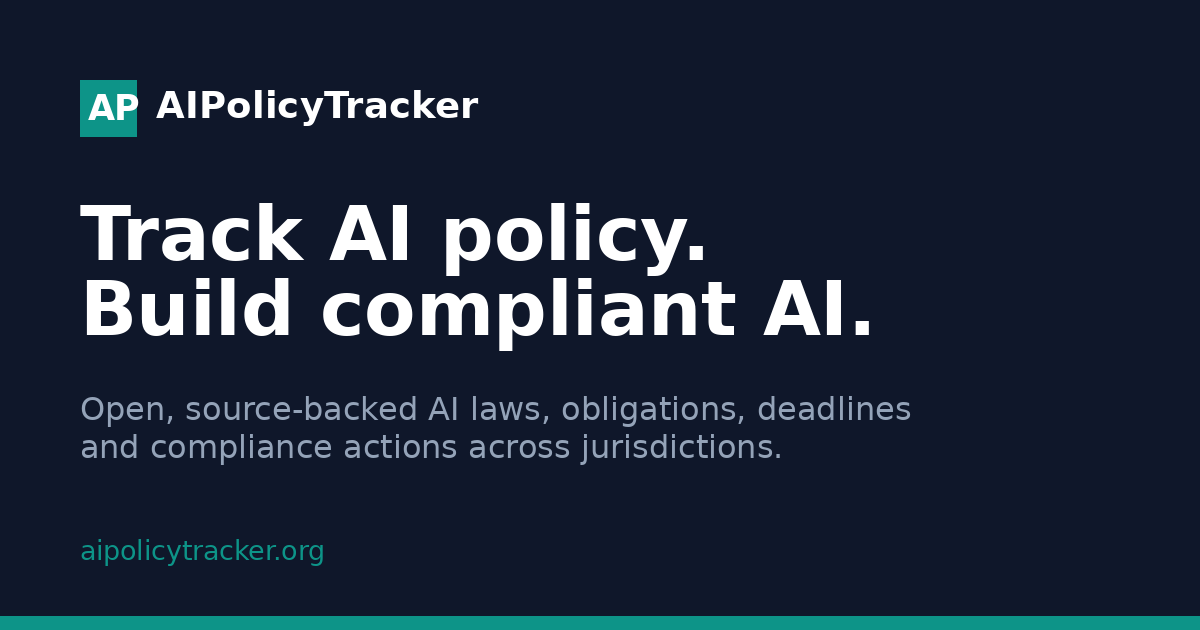
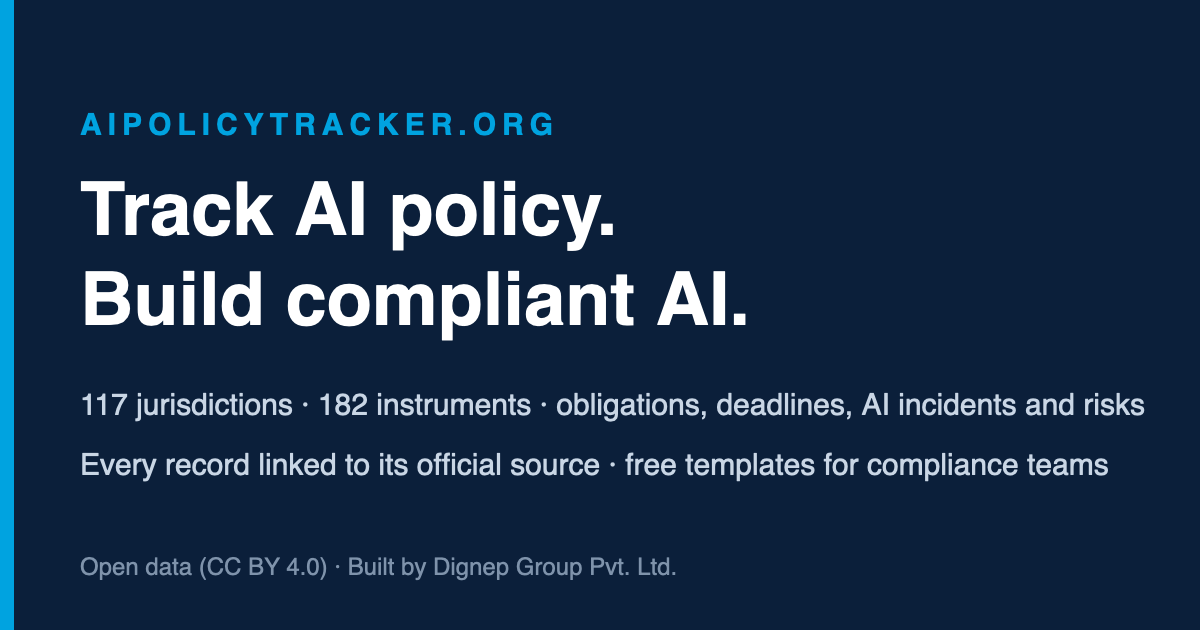
Themed account pages, corrections on risk profiles, guide hooks, new OG image, debt cleanup (#52)
- Forgot/reset password, verify email, confirm password and profile pages are Blade in the site theme (x-auth-shell); profile shows downloads, consent, password and deletion.
- Report a correction on incident and risk profiles with prefilled fields and source links.
- Featured guide titles and summaries rewritten around outcomes; OG image regenerated in brand colours.
- Debt entries for removed legacy code closed.

diff --git a/resources/views/site/account/profile.blade.php b/resources/views/site/account/profile.blade.php
@@ -1,0 +1,53 @@
+@extends('site.layouts.app')
+@section('content')
+<div class="container-site py-8 max-w-3xl">
+    <x-site.breadcrumbs :items="$seo->breadcrumbs" />
+    <p class="eyebrow mt-3">Your account</p>
+    <h1 class="mt-2 text-2xl sm:text-3xl font-semibold tracking-tight text-brand-navy">{{ $user->name }}</h1>
+    <p class="mt-1 text-sm text-brand-muted">{{ $user->email }} · member since {{ $user->created_at?->format('j M Y') }}@if($user->isAdmin()) · <a href="{{ route('backend.admin.dashboard') }}">Admin</a>@endif</p>
+    @if(session('status') === 'profile-updated')<p class="mt-4 rounded-sm border border-state-good/30 bg-state-goodbg px-3 py-2 text-sm text-state-good" role="status">Profile saved.</p>@elseif(session('status') === 'password-updated')<p class="mt-4 rounded-sm border border-state-good/30 bg-state-goodbg px-3 py-2 text-sm text-state-good" role="status">Password updated.</p>@elseif(session('status') === 'verification-link-sent')<p class="mt-4 rounded-sm border border-state-good/30 bg-state-goodbg px-3 py-2 text-sm text-state-good" role="status">Verification link sent.</p>@endif
+    <div class="mt-8 grid gap-6 md:grid-cols-2">
+        <section class="card-flat p-5" aria-labelledby="dl-h">
+            <h2 id="dl-h" class="section-title !text-lg">Your downloads</h2>
+            @if($downloads->isEmpty())<p class="mt-2 text-sm text-brand-muted">No downloads yet. <a href="{{ route('guides.index', ['access' => 'download']) }}">Browse the free tools</a>.</p>@else
+            <ul class="mt-3 divide-y divide-brand-line text-sm">@foreach($downloads as $d)<li class="py-2 flex flex-wrap justify-between gap-2"><span>@if($d->tool)<a href="{{ $d->tool->url() }}">{{ $d->tool->title }}</a>@else{{ $d->resource_slug }}@endif <span class="meta">v{{ $d->version }}</span></span><span class="meta">{{ $d->created_at->format('j M Y') }} · @if($d->tool && $d->tool->status === 'published')<a href="{{ route('tools.ready', [$d->resource_slug, $d]) }}">get links</a>@else unavailable @endif</span></li>@endforeach</ul>@endif
+        </section>
+        <section class="card-flat p-5" aria-labelledby="pref-h">
+            <h2 id="pref-h" class="section-title !text-lg">Updates and consent</h2>
+            <dl class="mt-3 text-sm space-y-1.5 text-brand-body">
+                <div class="flex justify-between gap-2"><dt class="text-brand-muted">Email verified</dt><dd>{{ $user->email_verified_at ? $user->email_verified_at->format('j M Y') : '—' }}</dd></div>
+                <div class="flex justify-between gap-2"><dt class="text-brand-muted">Terms accepted</dt><dd>{{ $user->terms_accepted_at?->format('j M Y') ?? '—' }}</dd></div>
+                <div class="flex justify-between gap-2"><dt class="text-brand-muted">Policy-update emails</dt><dd>{{ $user->marketing_consent_at ? 'opted in '.$user->marketing_consent_at->format('j M Y') : 'not opted in' }}</dd></div>
+            </dl>
+            @if(!$user->email_verified_at)<form method="post" action="{{ route('verification.send') }}" class="mt-3">@csrf<button type="submit" class="btn-secondary">Resend verification email</button></form>@endif
+            <p class="mt-3 meta">Weekly digest subscriptions are managed from the <a href="{{ route('subscribe.show') }}">subscribe page</a> and the unsubscribe link in every email.</p>
+        </section>
+    </div>
+    <div class="mt-6 grid gap-6 md:grid-cols-2">
+        <form method="post" action="{{ route('profile.update') }}" class="card-flat p-5 space-y-3" aria-labelledby="prof-h">@csrf @method('PATCH')
+            <h2 id="prof-h" class="section-title !text-lg">Profile</h2>
+            <div><label for="name" class="label">Name</label><input id="name" name="name" class="input" required value="{{ old('name', $user->name) }}">@error('name')<p class="mt-1 text-xs text-state-bad">{{ $message }}</p>@enderror</div>
+            <div><label for="email" class="label">Email address</label><input id="email" type="email" name="email" class="input" required value="{{ old('email', $user->email) }}">@error('email')<p class="mt-1 text-xs text-state-bad">{{ $message }}</p>@enderror<p class="mt-1 meta">Changing the address requires a new verification.</p></div>
+            <div><label for="organization_name" class="label">Organisation <span class="meta font-normal">(optional)</span></label><input id="organization_name" name="organization_name" class="input" value="{{ old('organization_name', $user->organization_name) }}"></div>
+            <label class="flex items-start gap-2 text-sm text-brand-body"><input type="checkbox" name="marketing_consent" value="1" @checked($user->marketing_consent_at) class="mt-1 rounded-sm border-brand-line text-brand-navy focus:ring-brand-navy"><span>Email me guides and updates when related AI policy requirements change.</span></label>
+            <button type="submit" class="btn-primary">Save profile</button>
+        </form>
+        <form method="post" action="{{ route('password.update') }}" class="card-flat p-5 space-y-3" aria-labelledby="pw-h">@csrf @method('PUT')
+            <h2 id="pw-h" class="section-title !text-lg">Password</h2>
+            <div><label for="current_password" class="label">Current password</label><input id="current_password" type="password" name="current_password" class="input" required autocomplete="current-password">@error('current_password', 'updatePassword')<p class="mt-1 text-xs text-state-bad">{{ $message }}</p>@enderror</div>
+            <div><label for="password" class="label">New password</label><input id="password" type="password" name="password" class="input" required autocomplete="new-password">@error('password', 'updatePassword')<p class="mt-1 text-xs text-state-bad">{{ $message }}</p>@enderror</div>
+            <div><label for="password_confirmation" class="label">Confirm new password</label><input id="password_confirmation" type="password" name="password_confirmation" class="input" required autocomplete="new-password"></div>
+            <button type="submit" class="btn-primary">Update password</button>
+        </form>
+    </div>
+    <details class="mt-6 card-flat p-5">
+        <summary class="cursor-pointer text-sm font-semibold text-state-bad">Delete account</summary>
+        <p class="mt-2 text-sm text-brand-body">Deleting your account removes your profile and download history permanently. Digest subscriptions are separate; use the unsubscribe link in any email.</p>
+        <form method="post" action="{{ route('profile.destroy') }}" class="mt-3 flex flex-wrap gap-2 items-end" onsubmit="return confirm('Delete your account permanently?');">@csrf @method('DELETE')
+            <div><label for="del-password" class="label">Confirm with your password</label><input id="del-password" type="password" name="password" class="input" required autocomplete="current-password">@error('password', 'userDeletion')<p class="mt-1 text-xs text-state-bad">{{ $message }}</p>@enderror</div>
+            <button type="submit" class="btn-secondary !border-state-bad/40 !text-state-bad">Delete my account</button>
+        </form>
+    </details>
+    <p class="mt-6 text-sm"><form method="post" action="{{ route('logout') }}" class="inline">@csrf<button type="submit" class="btn-secondary">Sign out</button></form></p>
+</div>
+@endsection

diff --git a/app/Http/Controllers/Site/ContributeController.php b/app/Http/Controllers/Site/ContributeController.php
@@ -21,6 +21,8 @@ class ContributeController extends Controller
         'jurisdiction' => ['name', 'regulatory_status_summary', 'binding_vs_guidance', 'current_priorities', 'regulators', 'official_source_url'],
         'obligation' => ['title', 'category', 'is_binding', 'summary', 'practical_action', 'applies_from', 'source_reference', 'official_source_url'],
         'change' => ['title', 'occurred_on', 'what_changed', 'practical_impact', 'impact_level', 'status_after', 'official_source_url'],
+        'incident' => ['title', 'occurred_on', 'description', 'deployers', 'developers', 'harmed', 'mit_domain', 'mit_subdomain', 'entity', 'intent', 'timing', 'harm_level', 'countries'],
+        'risk' => ['risk_category', 'risk_subcategory', 'description', 'domain', 'subdomain', 'entity', 'intent', 'timing', 'paper_title'],
     ];
 
     public function show(Request $request): View
@@ -44,8 +46,8 @@ class ContributeController extends Controller
             'subject' => $subject,
             'prefill' => [
                 'type' => array_key_exists($request->query('type', ''), ContributorSubmission::TYPES) ? $request->query('type') : 'correction',
-                'subject_type' => $subject['type'] ?? (in_array($subjectType, ['policy', 'jurisdiction', 'obligation', 'change', 'other'], true) ? $subjectType : null),
-                'subject_slug' => $subject['slug'] ?? (preg_match('/^[a-z0-9-]{0,160}$/', $subjectSlug) ? $subjectSlug : null),
+                'subject_type' => $subject['type'] ?? (in_array($subjectType, ['policy', 'jurisdiction', 'obligation', 'change', 'incident', 'risk', 'other'], true) ? $subjectType : null),
+                'subject_slug' => $subject['slug'] ?? (preg_match('/^[A-Za-z0-9._-]{0,160}$/', $subjectSlug) ? $subjectSlug : null),
                 'field' => $subject && array_key_exists((string) $request->query('field'), $subject['fields']) ? $request->query('field') : null,
             ],
         ]);
@@ -60,8 +62,8 @@ class ContributeController extends Controller
 
         $data = $request->validate([
             'type' => ['required', 'in:'.implode(',', array_keys(ContributorSubmission::TYPES))],
-            'subject_type' => ['nullable', 'in:policy,jurisdiction,obligation,change,other'],
-            'subject_slug' => ['nullable', 'string', 'max:160', 'regex:/^[a-z0-9-]*$/'],
+            'subject_type' => ['nullable', 'in:policy,jurisdiction,obligation,change,incident,risk,other'],
+            'subject_slug' => ['nullable', 'string', 'max:160', 'regex:/^[A-Za-z0-9._-]*$/'],
             'field' => ['nullable', 'string', 'max:64', 'regex:/^[a-z_]*$/'],
             'current_value' => ['nullable', 'string', 'max:4000'],
             'proposed_value' => ['nullable', 'string', 'max:4000'],
@@ -108,7 +110,7 @@ class ContributeController extends Controller
      */
     public static function resolveSubject(?string $type, string $slug): ?array
     {
-        if (! $type || $slug === '' || ! preg_match('/^[a-z0-9-]{1,160}$/', $slug)) {
+        if (! $type || $slug === '' || ! preg_match('/^[A-Za-z0-9._-]{1,160}$/', $slug)) {
             return null;
         }
         $labels = [
@@ -118,7 +120,7 @@ class ContributeController extends Controller
             'official_source_url' => 'Official source URL', 'regulatory_status_summary' => 'Regulatory status', 'binding_vs_guidance' => 'Binding vs guidance',
             'current_priorities' => 'Current priorities', 'regulators' => 'Regulators', 'category' => 'Category', 'summary' => 'Summary',
             'practical_action' => 'Practical action', 'source_reference' => 'Source reference', 'occurred_on' => 'Date of change',
-            'what_changed' => 'What changed', 'practical_impact' => 'Practical impact', 'impact_level' => 'Impact level', 'status_after' => 'Status after change',
+            'what_changed' => 'What changed', 'description' => 'Description', 'deployers' => 'Alleged deployer', 'developers' => 'Alleged developer', 'harmed' => 'Alleged harmed party', 'mit_domain' => 'Risk domain', 'mit_subdomain' => 'Risk subdomain', 'entity' => 'Causal entity', 'intent' => 'Intent', 'timing' => 'Timing', 'harm_level' => 'Harm level', 'countries' => 'Countries', 'risk_category' => 'Risk category', 'risk_subcategory' => 'Risk subcategory', 'domain' => 'Domain', 'subdomain' => 'Subdomain', 'paper_title' => 'Source paper', 'practical_impact' => 'Practical impact', 'impact_level' => 'Impact level', 'status_after' => 'Status after change',
         ];
 
         $record = match ($type) {
@@ -126,6 +128,8 @@ class ContributeController extends Controller
             'jurisdiction' => Jurisdiction::published()->where('slug', $slug)->first(),
             'obligation' => Obligation::published()->with('policyInstrument.jurisdiction')->where('slug', $slug)->first(),
             'change' => ChangeEvent::published()->with(['jurisdiction', 'policyInstrument'])->where('slug', $slug)->first(),
+            'incident' => ctype_digit($slug) ? \App\Models\ExternalIncident::find((int) $slug) : null,
+            'risk' => \App\Models\ExternalRisk::find(str_replace('--', '#', $slug)),
             default => null,
         };
         if (! $record) {
@@ -143,6 +147,8 @@ class ContributeController extends Controller
             'jurisdiction' => [$record->name, $record->url(), null],
             'obligation' => [$record->title, $record->url(), $record->policyInstrument?->jurisdiction?->name],
             'change' => [$record->title, route('changes.year', $record->occurred_on->year).'#'.$record->slug, $record->jurisdiction?->name],
+            'incident' => ['AI incident #'.$record->incident_id.': '.$record->title, $record->url(), 'AI Incident Database'],
+            'risk' => [($record->risk_subcategory ?: $record->risk_category ?: $record->ev_id).' ('.$record->quick_ref.')', $record->url(), 'MIT AI Risk Repository'],
         };
 
         return [
@@ -150,8 +156,8 @@ class ContributeController extends Controller
             'slug' => $slug,
             'title' => $title,
             'url' => $url,
-            'official_source_url' => $record->official_source_url ?? ($type === 'obligation' ? $record->policyInstrument?->official_source_url : null),
-            'source_title' => $record->source_title ?? ($type === 'obligation' ? $record->policyInstrument?->source_title : null),
+            'official_source_url' => match ($type) { 'incident' => $record->citeUrl(), 'risk' => $record->navigatorUrl(), 'obligation' => $record->official_source_url ?? $record->policyInstrument?->official_source_url, default => $record->official_source_url },
+            'source_title' => match ($type) { 'incident' => 'AI Incident Database record', 'risk' => 'MIT AI Risk Repository (Risk Navigator)', 'obligation' => $record->source_title ?? $record->policyInstrument?->source_title, default => $record->source_title },
             'jurisdiction' => $jurisdiction,
             'content_version' => isset($record->content_version) ? (int) $record->content_version : null,
             'fields' => $fields,

diff --git a/config/content.php b/config/content.php
@@ -157,10 +157,10 @@ return [
 
     'guides' => [
         'ai-startup-eu-ai-act-readiness' => [
-            'h1' => 'EU AI Act readiness for AI startups',
-            'title' => 'EU AI Act readiness guide for AI startups',
-            'description' => 'A practical, source-backed readiness path for startups: decide your role, screen prohibited uses, classify risk, plan high-risk workstreams and prepare general-purpose AI duties, with links to official sources.',
-            'summary' => 'Step-by-step readiness path from inventory to evidence, tied to the obligations and deadlines recorded for the EU AI Act.',
+            'h1' => 'EU AI Act readiness for AI startups: the 90-day path from inventory to evidence',
+            'title' => 'EU AI Act readiness for AI startups (90-day path, dated obligations)',
+            'description' => 'The EU AI Act already applies to prohibited practices and AI literacy, general-purpose model duties started in August 2025 and most high-risk obligations land in August 2026. This guide turns those dates into a 90-day path: decide your role, screen banned uses, classify risk, plan the high-risk workstreams and build the evidence pack customers and regulators will ask for, with every step linked to the recorded obligation.',
+            'summary' => 'Most startups are providers without knowing it. In 90 days: role, prohibited-use screen, risk classification, high-risk workstreams and an evidence pack, each step linked to the recorded obligation and its deadline.',
             'policies' => ['eu-ai-act'],
             'obligations' => ['eu-ai-act-prohibited-practices', 'eu-ai-act-ai-literacy', 'eu-ai-act-risk-management-system', 'eu-ai-act-technical-documentation', 'eu-ai-act-transparency-article-50', 'eu-ai-act-gpai-provider-obligations'],
             'steps' => [
@@ -176,10 +176,10 @@ return [
             ],
         ],
         'ai-governance-for-startups' => [
-            'h1' => 'AI governance for startups',
-            'title' => 'AI governance for startups: a minimum viable programme',
-            'description' => 'How a small team can set up AI governance that satisfies customers and regulators across jurisdictions: inventory, roles, risk screening, data and model documentation, oversight, incident handling and evidence, mapped to recorded obligations.',
-            'summary' => 'A minimum viable governance programme that scales from one product to a portfolio, drawing on obligations recorded across the EU, US, UK, Singapore and Australia.',
+            'h1' => 'AI governance for startups: the four artefacts every buyer and regulator asks for',
+            'title' => 'AI governance for startups: inventory, register, policy, incident process',
+            'description' => 'Enterprise buyers, insurers and regulators ask small AI teams for the same four things: an AI system inventory, a risk register, a written policy and an incident process. This guide shows how to produce them in weeks, not quarters, using obligations recorded across the EU, US, UK, Singapore and Australia and the free templates on this site.',
+            'summary' => 'Skip the year-long programme. Build the four artefacts procurement, insurers and regulators actually request (inventory, risk register, policy, incident process) with free templates and recorded obligations.',
             'policies' => ['eu-ai-act', 'us-nist-ai-rmf', 'singapore-model-ai-governance-framework', 'australia-voluntary-ai-safety-standard', 'us-colorado-ai-act'],
             'obligations' => ['eu-ai-act-risk-management-system', 'us-nist-ai-rmf-govern', 'singapore-mgf-human-involvement', 'australia-vaiss-accountability-and-risk-management', 'us-colorado-deployer-impact-assessment'],
             'steps' => [
@@ -193,10 +193,10 @@ return [
             'faq' => [],
         ],
         'iso-42001-vs-eu-ai-act' => [
-            'h1' => 'ISO/IEC 42001 vs the EU AI Act',
-            'title' => 'ISO/IEC 42001 vs EU AI Act: how the standard maps to the law',
-            'description' => 'How the ISO/IEC 42001 AI management system standard relates to EU AI Act obligations: what certification does and does not prove, and an original crosswalk from recorded obligations to management-system clauses.',
-            'summary' => 'Original editorial crosswalk between EU AI Act obligations and ISO/IEC 42001 management-system clauses, with the limits of certification made explicit.',
+            'h1' => 'ISO/IEC 42001 vs the EU AI Act: what certification proves and what it does not',
+            'title' => 'ISO/IEC 42001 vs EU AI Act: clause-by-obligation crosswalk',
+            'description' => 'Certification against ISO/IEC 42001 is not a presumption of conformity with the EU AI Act. This original crosswalk maps each recorded EU AI Act obligation to the management-system clauses that help meet it, marks the gaps the standard cannot close (conformity assessment, registration, transparency duties) and tells CISOs and compliance leads how to use the two together.',
+            'summary' => 'Certification is not conformity. An obligation-by-clause crosswalk that shows where ISO/IEC 42001 helps with the EU AI Act, where it stops, and how CISOs should use both.',
             'policies' => ['eu-ai-act'],
             'framework' => 'iso_42001',
             'steps' => [
@@ -210,10 +210,10 @@ return [
             ],
         ],
         'nist-ai-rmf-vs-eu-ai-act' => [
-            'h1' => 'NIST AI RMF vs the EU AI Act',
-            'title' => 'NIST AI RMF vs EU AI Act: mapping the framework to legal obligations',
-            'description' => 'How the voluntary NIST AI Risk Management Framework relates to binding EU AI Act obligations: shared concepts, gaps, and an original crosswalk from recorded obligations to Govern, Map, Measure and Manage.',
-            'summary' => 'Original crosswalk from EU AI Act obligations to the NIST AI RMF functions, with the framework\'s voluntary nature and the law\'s prescriptive outputs made explicit.',
+            'h1' => 'NIST AI RMF vs the EU AI Act: turning a voluntary framework into legal evidence',
+            'title' => 'NIST AI RMF vs EU AI Act: Govern, Map, Measure, Manage mapped to obligations',
+            'description' => 'US teams built on the NIST AI Risk Management Framework face binding EU AI Act obligations the moment their systems reach EU users. This crosswalk maps Govern, Map, Measure and Manage to the recorded obligations, shows which framework outputs count as evidence and which legal duties the framework never mentions.',
+            'summary' => 'Built on NIST AI RMF and selling into Europe? See which Govern, Map, Measure and Manage outputs count as EU AI Act evidence, and which binding duties the framework never covers.',
             'policies' => ['eu-ai-act', 'us-nist-ai-rmf'],
             'framework' => 'nist_ai_rmf',
             'steps' => [

diff --git a/tests/Feature/Site/PublicSiteTest.php b/tests/Feature/Site/PublicSiteTest.php
@@ -241,6 +241,21 @@ class PublicSiteTest extends TestCase
         $this->get('/login')->assertOk()->assertHeader('Content-Security-Policy');
     }
 
+    public function test_account_pages_are_server_rendered_in_the_site_theme(): void
+    {
+        $this->get('/forgot-password')->assertOk()->assertSee('Reset your password')->assertSee('brand/logo-on-dark.svg');
+        $this->get('/reset-password/sometoken?email=a@example.org')->assertOk()->assertSee('Choose a new password')->assertSee('name="token"', false);
+        $this->get('/profile')->assertRedirect(route('login'));
+        $user = User::factory()->unverified()->create();
+        $this->actingAs($user)->get('/verify-email')->assertOk()->assertSee('Verify your email address');
+        $this->actingAs($user)->get('/confirm-password')->assertOk()->assertSee('Confirm your password');
+        $this->actingAs($user)->get('/profile')->assertOk()->assertSee('Your downloads')->assertSee('Delete account')->assertSee($user->email);
+        $this->actingAs($user)->patch('/profile', ['name' => 'Renamed', 'email' => $user->email, 'organization_name' => 'Acme', 'marketing_consent' => 1])->assertRedirect(route('profile.edit'));
+        $this->assertSame('Acme', $user->fresh()->organization_name);
+        $this->assertNotNull($user->fresh()->marketing_consent_at);
+        $this->assertStringContainsString('1200', (string) getimagesize(public_path('og-default.png'))[0]);
+    }
+
     public function test_review_queue_is_admin_only_and_can_publish(): void
     {
         config(['aipolicytracker.admin_emails' => ['admin@example.com']]);
@@ -352,6 +367,8 @@ class PublicSiteTest extends TestCase
         $incident = \App\Models\ExternalIncident::whereNotNull('mit_subdomain')->where('mit_subdomain', '!=', '')->orderByDesc('report_count')->first();
         $this->get('/ai-risk/incidents/'.$incident->incident_id)->assertOk()->assertSee($incident->title)->assertSee('news report')->assertSee('Classification (MIT AI Risk Repository taxonomy)')->assertSee('data-save="incident:'.$incident->incident_id.'"', false);
         $this->get('/ai-risk/incidents/999999999')->assertNotFound();
+        $this->get('/ai-risk/incidents/'.$incident->incident_id)->assertSee(route('contribute', ['type' => 'correction', 'subject_type' => 'incident', 'subject_slug' => $incident->incident_id]));
+        $this->get('/contribute?type=correction&subject_type=incident&subject_slug='.$incident->incident_id)->assertOk()->assertSee('Record you are correcting')->assertSee('incidentdatabase.ai/cite/'.$incident->incident_id);
         $risk = \App\Models\ExternalRisk::where('level', 'Risk Sub-Category')->whereNotNull('subdomain')->first();
         $this->get($risk->url())->assertOk()->assertSee($risk->risk_subcategory ?: $risk->risk_category)->assertSee('Real-world incidents in this subdomain')->assertSee($risk->quick_ref);
         $dup = \App\Models\ExternalRisk::where('ev_id', 'like', '%#%')->first();

diff --git a/resources/views/auth/shell.blade.php b/resources/views/auth/shell.blade.php
@@ -1,0 +1,35 @@
+<!DOCTYPE html>
+<html lang="en">
+<head>
+    <meta charset="utf-8"><meta name="viewport" content="width=device-width, initial-scale=1"><meta name="robots" content="noindex,nofollow">
+    <title>{{ $title }} | AIPolicyTracker</title>
+    <link rel="icon" type="image/svg+xml" href="{{ asset('brand/mark.svg') }}">
+    <link rel="preconnect" href="https://fonts.bunny.net">
+    <link href="https://fonts.bunny.net/css?family=space-grotesk:400,500,600,700|space-mono:400,700&display=swap" rel="stylesheet">
+    @vite(['resources/css/public.css', 'resources/js/public.js'])
+</head>
+<body class="min-h-screen bg-brand-paper">
+<div class="min-h-screen lg:grid lg:grid-cols-2">
+    <section class="hidden lg:flex flex-col justify-between bg-brand-ink text-white/85 p-10">
+        <a href="{{ route('home') }}" class="no-underline"><img src="{{ asset('brand/logo-on-dark.svg') }}" alt="AIPolicyTracker" class="h-10 w-auto"></a>
+        <div>
+            <p class="eyebrow !text-brand-cyan">{{ $eyebrow ?? 'Account' }}</p>
+            <h1 class="mt-3 font-display text-3xl font-semibold text-white">{{ $panelTitle ?? 'Source-backed AI policy intelligence' }}</h1>
+            <p class="mt-4 text-sm text-white/80 max-w-md">{{ $panelText ?? 'Every record links an official source and shows its review status. Your account gives you free templates, saved records and policy-change updates.' }}</p>
+        </div>
+        <p class="text-xs text-white/50">{{ config('aipolicytracker.disclaimer') }}</p>
+    </section>
+    <main class="flex items-center justify-center px-4 py-12">
+        <div class="w-full max-w-sm">
+            <a href="{{ route('home') }}" class="lg:hidden inline-block no-underline mb-6"><img src="{{ asset('brand/logo-on-light.svg') }}" alt="AIPolicyTracker" class="h-9 w-auto"></a>
+            <p class="eyebrow">{{ $eyebrow ?? 'Account' }}</p>
+            <h2 class="mt-2 font-display text-2xl font-semibold text-brand-navy">{{ $title }}</h2>
+            @if(session('status'))<p class="mt-3 rounded-sm border border-state-good/30 bg-state-goodbg px-3 py-2 text-sm text-state-good" role="status">{{ session('status') === 'verification-link-sent' ? 'A new verification link has been sent to your email address.' : (session('status') === 'passwords.sent' ? 'We emailed you a password reset link.' : session('status')) }}</p>@endif
+            @if($errors->any())<div class="mt-3 rounded-sm border border-state-bad/30 bg-state-badbg p-3 text-sm text-state-bad" role="alert"><ul class="list-disc pl-5">@foreach($errors->all() as $e)<li>{{ $e }}</li>@endforeach</ul></div>@endif
+            {{ $slot }}
+            <p class="mt-6 text-xs text-brand-muted"><a href="{{ route('home') }}">Back to the site</a>@auth · <a href="{{ route('profile.edit') }}">Your account</a>@else · <a href="{{ route('login') }}">Sign in</a>@endauth</p>
+        </div>
+    </main>
+</div>
+</body>
+</html>

diff --git a/resources/views/site/pages/contribute.blade.php b/resources/views/site/pages/contribute.blade.php
@@ -37,8 +37,8 @@
         <div><label for="s-proposed" class="label">Correct value (as stated in the official source)</label><textarea id="s-proposed" name="proposed_value" rows="2" class="input" maxlength="4000">{{ old('proposed_value') }}</textarea>@error('proposed_value')<p class="mt-1 text-xs text-state-bad">{{ $message }}</p>@enderror</div>
         @else
         <div class="grid gap-4 sm:grid-cols-2">
-            <div><label for="s-subject-type" class="label">Related record type</label><select id="s-subject-type" name="subject_type" class="input"><option value="">Not specific</option>@foreach(['policy','jurisdiction','obligation','change','other'] as $t)<option value="{{ $t }}" @selected(old('subject_type', $prefill['subject_type']) === $t)>{{ ucfirst($t) }}</option>@endforeach</select></div>
-            <div><label for="s-subject-slug" class="label">Record slug (from the URL)</label><input id="s-subject-slug" name="subject_slug" class="input" value="{{ old('subject_slug', $prefill['subject_slug']) }}" placeholder="e.g. eu-ai-act" pattern="[a-z0-9-]*"><p class="mt-1 text-xs text-brand-muted">Tip: use the "Report a correction" button on a record page and the form fills this in for you.</p></div>
+            <div><label for="s-subject-type" class="label">Related record type</label><select id="s-subject-type" name="subject_type" class="input"><option value="">Not specific</option>@foreach(['policy','jurisdiction','obligation','change','incident','risk','other'] as $t)<option value="{{ $t }}" @selected(old('subject_type', $prefill['subject_type']) === $t)>{{ ucfirst($t) }}</option>@endforeach</select></div>
+            <div><label for="s-subject-slug" class="label">Record slug (from the URL)</label><input id="s-subject-slug" name="subject_slug" class="input" value="{{ old('subject_slug', $prefill['subject_slug']) }}" placeholder="e.g. eu-ai-act" pattern="[A-Za-z0-9._-]*"><p class="mt-1 text-xs text-brand-muted">Tip: use the "Report a correction" button on a record page and the form fills this in for you.</p></div>
         </div>
         @endif
         <div><label for="s-summary" class="label">Summary <span class="text-state-bad" aria-hidden="true">*</span></label><input id="s-summary" name="summary" class="input" required minlength="10" maxlength="300" value="{{ old('summary', $subject && $prefill['field'] ? ($subject['fields'][$prefill['field']]['label'] ?? '').' for '.$subject['title'].' is wrong' : '') }}" aria-describedby="s-summary-help" data-summary-input><p id="s-summary-help" class="mt-1 text-xs text-brand-muted">One sentence: what is wrong, or what should be added.</p>@error('summary')<p class="mt-1 text-xs text-state-bad">{{ $message }}</p>@enderror</div>

diff --git a/app/Http/Controllers/ProfileController.php b/app/Http/Controllers/ProfileController.php
@@ -8,20 +8,20 @@ use Illuminate\Http\RedirectResponse;
 use Illuminate\Http\Request;
 use Illuminate\Support\Facades\Auth;
 use Illuminate\Support\Facades\Redirect;
-use Inertia\Inertia;
-use Inertia\Response;
 
 class ProfileController extends Controller
 {
     /**
      * Display the user's profile form.
      */
-    public function edit(Request $request): Response
+    public function edit(Request $request): \Illuminate\View\View
     {
-        return Inertia::render('Profile/Edit', [
-            'mustVerifyEmail' => $request->user() instanceof MustVerifyEmail,
-            'status' => session('status'),
-        ]);
+        $user = $request->user();
+        $seo = \App\Support\Seo::make('Your account', 'Profile, password, downloads and consent settings.', route('profile.edit'), false)->noindex()
+            ->withBreadcrumbs([['Home', route('home')], ['Your account', route('profile.edit')]]);
+        $downloads = \App\Models\ResourceDownload::with('tool')->where('user_id', $user->id)->orderByDesc('id')->limit(20)->get();
+
+        return view('site.account.profile', compact('seo', 'user', 'downloads'));
     }
 
     /**
@@ -30,6 +30,8 @@ class ProfileController extends Controller
     public function update(ProfileUpdateRequest $request): RedirectResponse
     {
         $request->user()->fill($request->validated());
+        $request->user()->organization_name = $request->input('organization_name') ?: null;
+        $request->user()->marketing_consent_at = $request->boolean('marketing_consent') ? ($request->user()->marketing_consent_at ?? now()) : null;
 
         if ($request->user()->isDirty('email')) {
             $request->user()->email_verified_at = null;
@@ -37,7 +39,7 @@ class ProfileController extends Controller
 
         $request->user()->save();
 
-        return Redirect::route('profile.edit');
+        return Redirect::route('profile.edit')->with('status', 'profile-updated');
     }
 
     /**

diff --git a/resources/views/auth/reset-password.blade.php b/resources/views/auth/reset-password.blade.php
@@ -1,0 +1,9 @@
+<x-auth-shell title="Choose a new password" eyebrow="Password reset">
+    <form method="post" action="{{ route('password.store') }}" class="mt-5 space-y-4">@csrf
+        <input type="hidden" name="token" value="{{ $token }}">
+        <div><label for="email" class="label">Email address</label><input id="email" type="email" name="email" value="{{ old('email', $email) }}" required autocomplete="username" class="input"></div>
+        <div><label for="password" class="label">New password</label><div class="relative"><input id="password" type="password" name="password" required autocomplete="new-password" class="input pr-20"><button type="button" class="absolute inset-y-0 right-0 px-3 text-xs font-medium text-brand-muted hover:text-brand-navy" data-password-toggle aria-controls="password" aria-pressed="false">Show</button></div></div>
+        <div><label for="password_confirmation" class="label">Confirm new password</label><input id="password_confirmation" type="password" name="password_confirmation" required autocomplete="new-password" class="input"></div>
+        <button type="submit" class="btn-primary w-full">Reset password</button>
+    </form>
+</x-auth-shell>

diff --git a/resources/views/site/risk/incident-show.blade.php b/resources/views/site/risk/incident-show.blade.php
@@ -76,6 +76,7 @@
                 <div class="flex flex-col gap-2 text-sm">
                     <x-site.save-button type="incident" :slug="(string) $i->incident_id" :title="'#'.$i->incident_id.' '.$i->title" :url="$i->url()" meta="AI incident" />
                     <a href="{{ route('risk.incidents.export', ['format' => 'json', 'year' => $i->year]) }}" class="btn-secondary">Export {{ $i->year }} incidents (JSON)</a>
+                    <a href="{{ route('contribute', ['type' => 'correction', 'subject_type' => 'incident', 'subject_slug' => $i->incident_id]) }}" class="btn-secondary" data-track="correction_click">Report a correction</a>
                     <button type="button" class="btn-secondary" data-copy-link>Copy link</button>
                 </div>
                 @if($domainId)<div class="text-sm"><p class="font-semibold text-brand-navy">Related policy context</p><p class="mt-1 text-brand-body">See which AI policies address this risk domain on the <a href="{{ route('risk.domain', $domainId) }}">domain page</a>.</p></div>@endif

diff --git a/resources/views/auth/confirm-password.blade.php b/resources/views/auth/confirm-password.blade.php
@@ -1,0 +1,7 @@
+<x-auth-shell title="Confirm your password" eyebrow="Security check">
+    <p class="mt-3 text-sm text-brand-body">This is a secure area of your account. Please confirm your password before continuing.</p>
+    <form method="post" action="{{ route('password.confirm') }}" class="mt-5 space-y-4">@csrf
+        <div><label for="password" class="label">Password</label><div class="relative"><input id="password" type="password" name="password" required autocomplete="current-password" class="input pr-20"><button type="button" class="absolute inset-y-0 right-0 px-3 text-xs font-medium text-brand-muted hover:text-brand-navy" data-password-toggle aria-controls="password" aria-pressed="false">Show</button></div></div>
+        <button type="submit" class="btn-primary w-full">Confirm</button>
+    </form>
+</x-auth-shell>

diff --git a/resources/views/site/risk/risk-show.blade.php b/resources/views/site/risk/risk-show.blade.php
@@ -66,6 +66,7 @@
                 <div class="flex flex-col gap-2 text-sm">
                     <x-site.save-button type="risk" :slug="$ev" :title="($r->risk_subcategory ?: $r->risk_category ?: $r->ev_id)" :url="$r->url()" :meta="$r->quick_ref" />
                     <a href="{{ route('risk.risks.export', ['format' => 'json', 'paper' => $r->quick_ref]) }}" class="btn-secondary">Export this paper's entries (JSON)</a>
+                    <a href="{{ route('contribute', ['type' => 'correction', 'subject_type' => 'risk', 'subject_slug' => $ev]) }}" class="btn-secondary" data-track="correction_click">Report a correction</a>
                     <button type="button" class="btn-secondary" data-copy-link>Copy link</button>
                 </div>
             </div>

diff --git a/app/Http/Controllers/Auth/EmailVerificationPromptController.php b/app/Http/Controllers/Auth/EmailVerificationPromptController.php
@@ -5,18 +5,16 @@ namespace App\Http\Controllers\Auth;
 use App\Http\Controllers\Controller;
 use Illuminate\Http\RedirectResponse;
 use Illuminate\Http\Request;
-use Inertia\Inertia;
-use Inertia\Response;
 
 class EmailVerificationPromptController extends Controller
 {
     /**
      * Display the email verification prompt.
      */
-    public function __invoke(Request $request): RedirectResponse|Response
+    public function __invoke(Request $request): RedirectResponse|\Illuminate\View\View
     {
         return $request->user()->hasVerifiedEmail()
             ? redirect()->intended(route('home', absolute: false))
-            : Inertia::render('Auth/VerifyEmail', ['status' => session('status')]);
+            : view('auth.verify-email');
     }
 }
